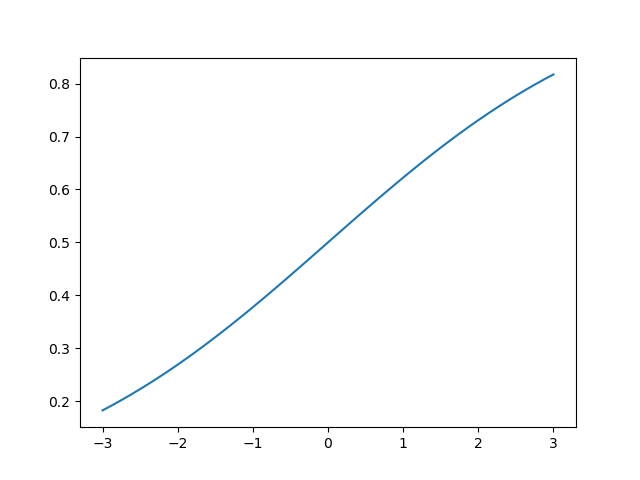
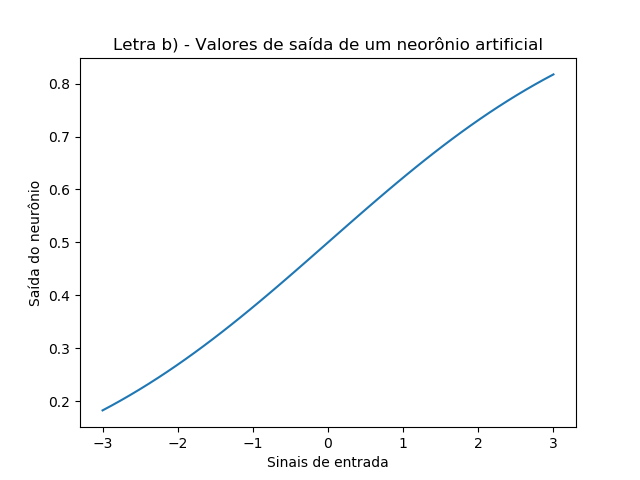
Add titles, labels in plots

diff --git a/artificialneuron.py b/artificialneuron.py
@@ -68,8 +68,10 @@ def question_2():
     arq.readline()
     lines = arq.readlines()
     cont = 0
+    letras = list("abcdefghijklmnopqrstuvwxyz")
     for line in lines:
         cont += 1
+        letra = letras.pop(0)
         line = line.split(';')
         n_inputs = int(line[0])
         start = int(line[1].split(',')[0])
@@ -90,6 +92,10 @@ def question_2():
             results.append(neuronio.get_output(beta))
         fig, ax = plt.subplots()
         ax.plot(samples, results)
+        plt.xlabel('Sinais de entrada')
+        plt.ylabel('Saída do neurônio')
+        plt.title("Letra {0}) - Valores de saída de um neorônio artificial".format(letra))
+        
         plt.savefig("./plots/plot-{0}.png".format(cont))
 
 if __name__=='__main__':
